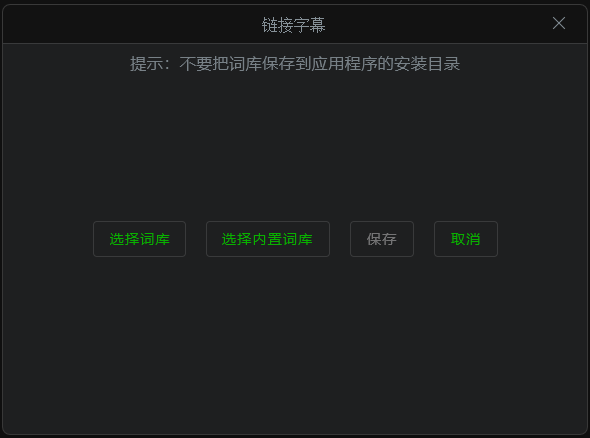
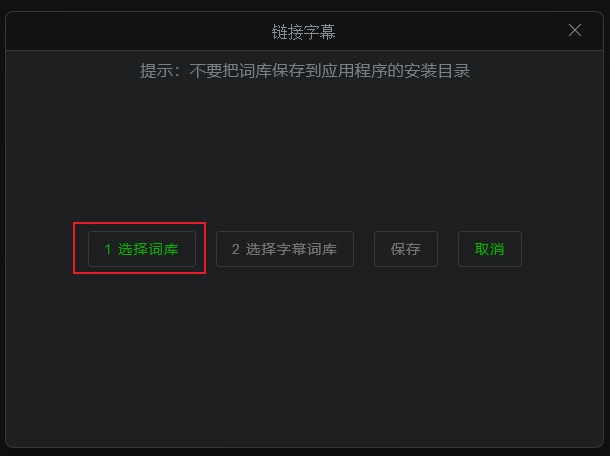
更新链接字幕词库的文档。

diff --git a/src/jvmMain/kotlin/ui/dialog/DocumentDialog.kt b/src/jvmMain/kotlin/ui/dialog/DocumentDialog.kt
@@ -533,17 +533,17 @@ fun LinkVocabularyPage(){
         Column (Modifier.padding(start = 16.dp, top = 16.dp,end = 16.dp).verticalScroll(stateVertical)){
             val theme = if(MaterialTheme.colors.isLight) "light" else "dark"
             Text("提示：不要把链接后的词库保存到应用程序的安装目录\n")
-            Text("1. 打开链接字幕对话框")
+            Text("1. 字幕 > 链接字幕词库(L) 打开链接字幕对话框，然后选择一个词库，也可以拖放一个词库到窗口。")
             Image(
                 painter = painterResource("screenshot/link-vocabulary-$theme/Link-Vocabulary-1.png"),
                 contentDescription = "mkv-1",
                 modifier = Modifier.width(590.dp).height(436.dp).padding(start = 20.dp)
             )
-            Text("\n2. 选择一个要链接的词库，如果是四级词库就从选择内置词库打开，也可以直接拖拽一个词库到窗口。")
+            Text("\n2. 这里以四级词库作为例。")
             Image(
                 painter = painterResource("screenshot/link-vocabulary-$theme/Link-Vocabulary-2.png"),
                 contentDescription = "mkv-2",
-                modifier = Modifier.width(590.dp).height(435.dp).padding(start = 20.dp)
+                modifier = Modifier.width(590.dp).height(436.dp).padding(start = 20.dp)
             )
             Text("\n3. 再选择一个有字幕的词库。选择后可以预览视频片段，然后点击链接，有字幕的词库就链接到了没有字幕的词库。")
             Image(
@@ -555,7 +555,7 @@ fun LinkVocabularyPage(){
             Image(
                 painter = painterResource("screenshot/link-vocabulary-$theme/Link-Vocabulary-4.png"),
                 contentDescription = "mkv-4",
-                modifier = Modifier.width(590.dp).height(440.dp).padding(start = 20.dp)
+                modifier = Modifier.width(580.dp).height(436.dp).padding(start = 20.dp)
             )
 
         }
